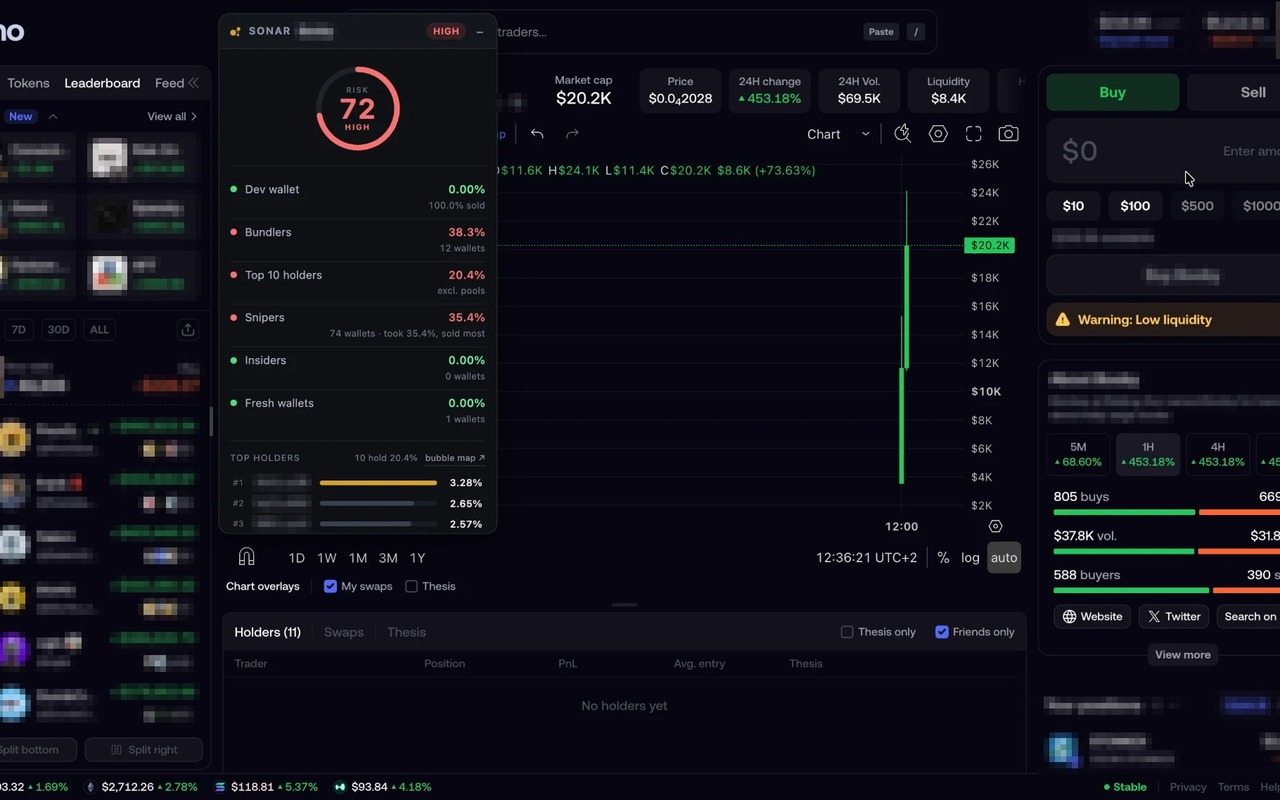
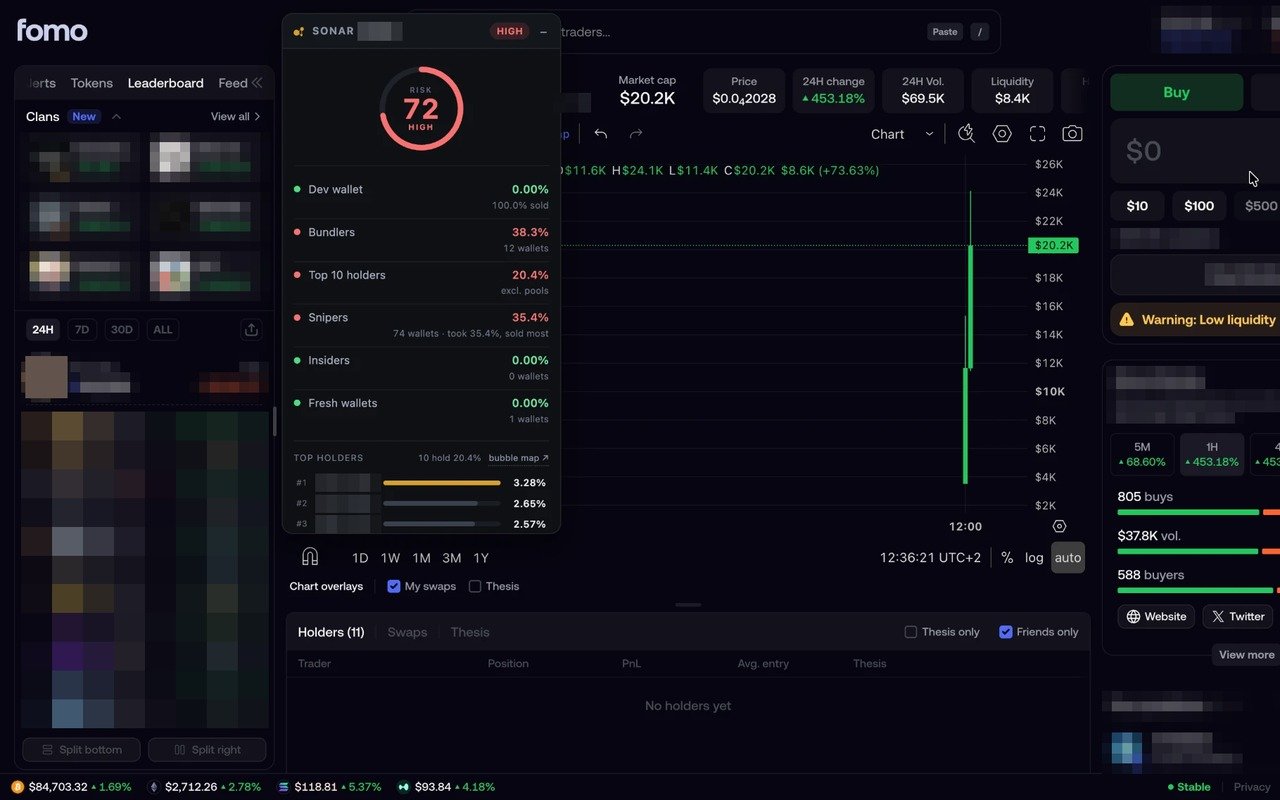
Three Store screenshots, redacted harder
Three now rather than two: the whole page, the panel beside the market numbers
Fomo already prints, and the panel over the chart mid-trade.

The mosaic goes from an 8px block to 14, and the profile pictures to 40. At 8
a large round avatar kept enough shape to be recognisable, which is the one
thing a redaction cannot leave behind.

diff --git a/store/LISTING.md b/store/LISTING.md
@@ -106,21 +106,23 @@ data about that token.
 
 ## Screenshots
 
-Two, 1280x800, in `store/screenshots/`:
+Three, 1280x800, in `store/screenshots/`:
 
   * `01-on-the-page.jpg` — the whole Fomo token page with the panel open on it,
     which is the thing being sold: an overlay, not another tab.
-  * `02-the-panel.jpg` — the panel itself, close enough to read every row.
+  * `02-the-panel.jpg` — the panel beside the numbers Fomo already prints, close
+    enough to read every row.
+  * `03-over-the-chart.jpg` — the panel sitting over the chart, mid-trade.
 
-Both are crops of one real capture, not mock-ups. The earlier three were
-rendered illustrations, and an illustration cannot sit under a description
-claiming the panel reads the launch transaction — it shows nothing of the kind.
+All three are crops of one real capture, not mock-ups. The set they replaced
+was rendered, and still carried the name SCOPE from before the rename — a
+listing showing a different product name than the one being installed.
 
-Identifying details are pixelated with `scripts/redact.py`: the account's
-picture, balances and positions, other traders' and clans' names, the token's
-own name, and the holder addresses. No figure is altered. A real ticker beside
-a HIGH dial would be a public accusation about somebody's project, which is
-not ours to make in a Store listing.
+Identifying details are pixelated with `scripts/redact.py` at a 14px block,
+and the profile pictures at 40px: the account's balances and positions, other
+traders' and clans' names, the token's own name, and the holder addresses. No
+figure is altered. A real ticker beside a HIGH dial would be a public
+accusation about somebody's project, which is not ours to make in a listing.
 
 ## Assets still needed
 
